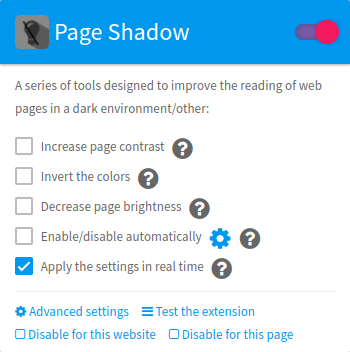
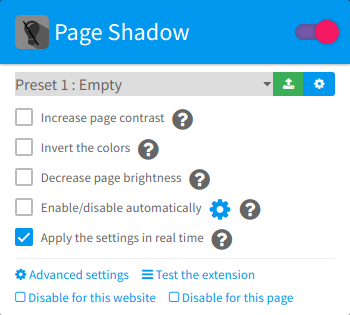
Version 2.6

Changed region(s): [[0.0, 0.0286, 1.0, 0.8], [0.0286, 0.8571, 0.8571, 0.9714], [0.8286, 0.0571, 0.9714, 0.1429]]

diff --git a/src/options.html b/src/options.html
@@ -126,10 +126,20 @@ along with Page Shadow.  If not, see <http://www.gnu.org/licenses/>. -->
                             <div class="panel panel-default">
                                 <div class="panel-heading">
                                     <h4 class="panel-title">
+                                        <a data-toggle="collapse" data-parent="#accordion" href="#collapse26" data-i18n="modal.about.changelog.versionNames.26"></a>
+                                    </h4>
+                                </div>
+                                <div id="collapse26" class="panel-collapse collapse in">
+                                    <div class="panel-body" data-i18n="[html]modal.about.changelog.26"></div>
+                                </div>
+                            </div>
+                            <div class="panel panel-default">
+                                <div class="panel-heading">
+                                    <h4 class="panel-title">
                                         <a data-toggle="collapse" data-parent="#accordion" href="#collapse25" data-i18n="modal.about.changelog.versionNames.25"></a>
                                     </h4>
                                 </div>
-                                <div id="collapse25" class="panel-collapse collapse in">
+                                <div id="collapse25" class="panel-collapse collapse">
                                     <div class="panel-body" data-i18n="[html]modal.about.changelog.25"></div>
                                 </div>
                             </div>

diff --git a/src/js/util.js b/src/js/util.js
@@ -17,7 +17,7 @@
  * You should have received a copy of the GNU General Public License
  * along with Page Shadow.  If not, see <http://www.gnu.org/licenses/>. */
 // Global configuration of the extension
-var extensionVersion = "2.5";
+var extensionVersion = "2.6";
 var nbThemes = 15; // nb of themes for the function Increase the contrast (used globally in the extension)
 var colorTemperaturesAvailable = ["1000", "1200", "1500", "1800", "2000", "2200", "2600", "2900", "3100", "3600"]; // color temperatures available for the function Night Mode (used globally in the extension)
 var minBrightnessPercentage = 0; // the minimum percentage of brightness

diff --git a/README.md b/README.md
@@ -4,7 +4,7 @@
 ![Screenshot](screen.png)
 
 An extension by Eliastik (eliastiksofts.com) - Contact : http://www.eliastiksofts.com/contact/
-* Latest version: 2.5 (29/04/2018)
+* Latest version: 2.6 (31/10/2018)
 * Official website: http://eliastiksofts.com/page-shadow
 * Github repository: https://github.com/Eliastik/page-shadow
 
@@ -23,6 +23,20 @@ For the other compatibles browser, you can install this extension from the offic
 Or you can compile it yourself (see Compilation section).
 
 ### Changelog:
+
+### Version 2.6 (31/10/2018) :
+* Added the ability to set presets (max 5, which can be created from the advanced settings) to restore them later (via the extension menu, advanced settings or the right-click menu);
+* Added a keyboard shortcut (Alt+Shift+S) to enable/disable the extension globally;
+* Added the Videos and Backgrounds (images) elements in the Invert the colors function, so they can be inverted or not regardless of the entire page and images;
+* Added ability to enable or disable background coloring of the images when the function Increase page contrast is enabled;
+* Fixed the display of some elements that could be hidden when the function Increase page contrast was enabled (eg in Google News);
+* The space taken by the extension menu has been reduced to accommodate the new functions;
+* Other minor changes:
+    * Small changes in the interface;
+    * Performance improvement;
+    * Bugfixes;
+    * Updated the software libraries;
+    * Other minor fixes (code simplification, etc.).
 
 ### Version 2.5 (29/04/2018) :
 * Better rendering of the tool Increase page contrast + color contrast of the themes corrected;
@@ -226,7 +240,7 @@ along with this program.  If not, see <http://www.gnu.org/licenses/>.
 ![Screenshot](screen_fr.png)
 
 Une extension by Eliastik (eliastiksofts.com) - Contact : http://www.eliastiksofts.com/contact/
-* Version actuelle : 2.5 (29/04/2018)
+* Version actuelle : 2.6 (31/10/2018)
 * Site officiel : http://eliastiksofts.com/page-shadow
 * Dépôt Github : https://github.com/Eliastik/page-shadow
 
@@ -245,6 +259,20 @@ Pour les autres navigateurs compatibles, vous pouvez soit l'installer depuis le 
 Soit la compiler vous-même (voir section "Compilation").
 
 ### Journal des changements :
+
+### Version 2.6 (31/10/2018) :
+* Ajout de la possibilité de définir des pré-réglages (5 max, pouvant être créés depuis les paramètres avancés) afin de les restaurer plus tard (via le menu de l'extension, les paramètres avancés ou le menu du clic-droit) ;
+* Ajout d'un raccourci clavier (Alt+Shift+S) permettant d'activer/désactiver l'extension globalement ;
+* Ajout des éléments Vidéos et Arrière-plans (images) dans la fonction Inverser les couleurs, ils peuvent ainsi être inversés ou non indépendamment de la page entière et des images ;
+* Ajout de la possibilité d'activer ou de désactiver la coloration de l'arrière-plan des images lorsque la fonction Augmenter le contraste de la page est activée ;
+* Correction de l'affichage de certains éléments qui pouvaient être masqués lorsque la fonction Augmenter le contraste de la page était activée (par exemple Google Actualités) ;
+* L'espace pris par le menu de l'extension a été réduit afin d'accueillir les nouvelles fonctions ;
+* Autres changements mineurs :
+    * Petits changements dans l'interface ;
+    * Amélioration des performances ;
+    * Correction de bugs ;
+    * Mise à jour des bibliothèques logicielles ;
+    * Autres corrections mineures (simplification du code, etc.).
 
 ### Version 2.5 (29/04/2018) :
 * Meilleur rendu de l'outil Augmenter le contraste de la page + contraste de couleurs des thèmes corrigé ;
